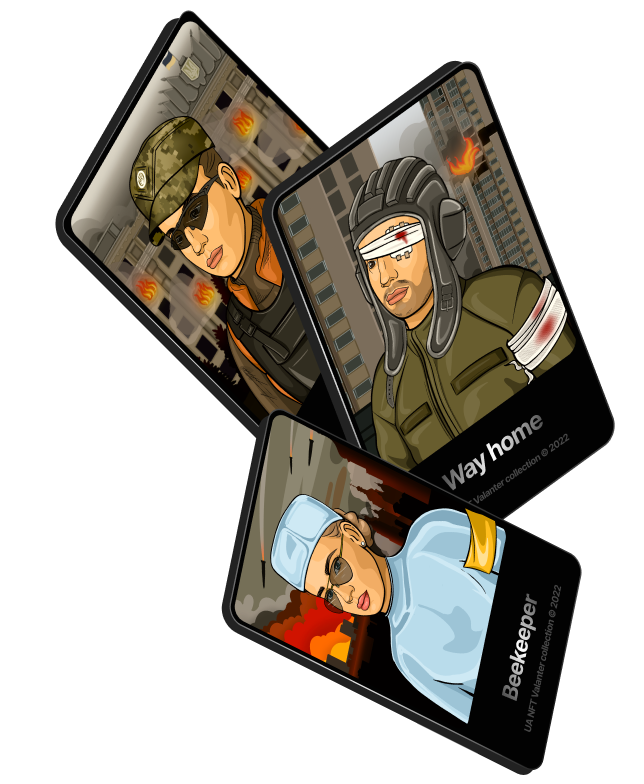
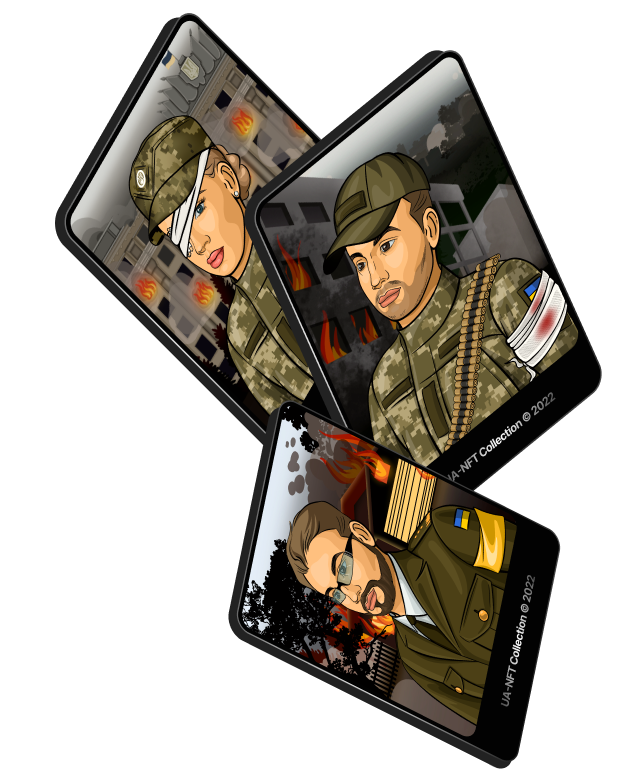
💅 texts, assets and fixes

diff --git a/src/sections/Roadmap/index.tsx b/src/sections/Roadmap/index.tsx
@@ -54,8 +54,7 @@ export const Roadmap: React.FC = () => (
                 <StarIcon className='opacity-30' />
               </div>
               <span className='text-[#ABABAB] text-lg font-semibold leading-relaxed'>
-                Creation of the new $TRIP Contract (Binance Smart Chain (BSC)
-                with a max supply of 5 billion $TRIP)
+                Smart contract development
               </span>
             </li>
             <li className='flex mb-4'>
@@ -63,7 +62,7 @@ export const Roadmap: React.FC = () => (
                 <StarIcon className='opacity-30' />
               </div>
               <span className='text-[#ABABAB] text-lg font-semibold leading-relaxed'>
-                Full audit &#x26; KYC to ensure security &#x26; transparency
+                Launch of the first NFT collection
               </span>
             </li>
             <li className='mb-4'>
@@ -72,7 +71,7 @@ export const Roadmap: React.FC = () => (
                   <StarIcon />
                 </div>
                 <span className='text-[#F6EDD4] text-lg font-semibold leading-relaxed'>
-                  Migration from ERC20 to BSC
+                  Mint
                 </span>
               </div>
               <p className='text-sm text-[#ABABAB] max-w-[15rem] leading-loose ml-11'>
@@ -80,38 +79,6 @@ export const Roadmap: React.FC = () => (
                 Launch community swap from ERC-BSchain Open BSC deposit and
                 withdrawal Re-launch trading pairs
               </p>
-            </li>
-            <li className='flex mb-4'>
-              <div className='p-1 mr-4 mb-auto'>
-                <StarIcon />
-              </div>
-              <span className='text-[#F6EDD4] text-lg font-semibold leading-relaxed'>
-                MigLaunch initial marketing campaign
-              </span>
-            </li>
-            <li className='flex mb-4'>
-              <div className='p-1 mr-4 mb-auto'>
-                <StarIcon />
-              </div>
-              <span className='text-[#F6EDD4] text-lg font-semibold leading-relaxed'>
-                Launch private sale
-              </span>
-            </li>
-            <li className='flex mb-4'>
-              <div className='p-1 mr-4 mb-auto'>
-                <StarIcon />
-              </div>
-              <span className='text-[#F6EDD4] text-lg font-semibold leading-relaxed'>
-                Launch Initial Liquidity Offering (ILO)
-              </span>
-            </li>
-            <li className='flex mb-4'>
-              <div className='p-1 mr-4 mb-auto'>
-                <StarIcon />
-              </div>
-              <span className='text-[#F6EDD4] text-lg font-semibold leading-relaxed'>
-                Add Decentralised Exchange (DEX) liquidity
-              </span>
             </li>
           </ul>
         </div>
@@ -156,7 +123,7 @@ export const Roadmap: React.FC = () => (
                 <StarIcon />
               </div>
               <span className='text-[#F6EDD4] text-lg font-semibold leading-relaxed'>
-                Launch private sale
+                Assistance to refugees
               </span>
             </li>
             <li className='flex mb-4'>
@@ -164,7 +131,7 @@ export const Roadmap: React.FC = () => (
                 <StarIcon />
               </div>
               <span className='text-[#F6EDD4] text-lg font-semibold leading-relaxed'>
-                Launch Initial Liquidity Offering (ILO)
+                Organization of simple boarding schools for children
               </span>
             </li>
             <li className='flex mb-4'>
@@ -172,7 +139,7 @@ export const Roadmap: React.FC = () => (
                 <StarIcon />
               </div>
               <span className='text-[#F6EDD4] text-lg font-semibold leading-relaxed'>
-                Add Decentralised Exchange (DEX) liquidity
+                Professional psychological assistance
               </span>
             </li>
             <li className='flex mb-4'>
@@ -180,7 +147,8 @@ export const Roadmap: React.FC = () => (
                 <StarIcon />
               </div>
               <span className='text-[#F6EDD4] text-lg font-semibold leading-relaxed'>
-                Add Decentralised Exchange (DEX) liquidity
+                Preparation of training courses and selection of experts for the
+                preparation of chains of courses
               </span>
             </li>
           </ul>
@@ -226,31 +194,7 @@ export const Roadmap: React.FC = () => (
                 <StarIcon />
               </div>
               <span className='text-[#F6EDD4] text-lg font-semibold leading-relaxed'>
-                Launch private sale
-              </span>
-            </li>
-            <li className='flex mb-4'>
-              <div className='p-1 mr-4 mb-auto'>
-                <StarIcon />
-              </div>
-              <span className='text-[#F6EDD4] text-lg font-semibold leading-relaxed'>
-                Launch Initial Liquidity Offering (ILO)
-              </span>
-            </li>
-            <li className='flex mb-4'>
-              <div className='p-1 mr-4 mb-auto'>
-                <StarIcon />
-              </div>
-              <span className='text-[#F6EDD4] text-lg font-semibold leading-relaxed'>
-                Add Decentralised Exchange (DEX) liquidity
-              </span>
-            </li>
-            <li className='flex mb-4'>
-              <div className='p-1 mr-4 mb-auto'>
-                <StarIcon />
-              </div>
-              <span className='text-[#F6EDD4] text-lg font-semibold leading-relaxed'>
-                Add Decentralised Exchange (DEX) liquidity
+                Launch of the second NFT collection
               </span>
             </li>
           </ul>
@@ -296,7 +240,7 @@ export const Roadmap: React.FC = () => (
                 <StarIcon />
               </div>
               <span className='text-[#F6EDD4] text-lg font-semibold leading-relaxed'>
-                Launch private sale
+                Development of humanitarian assistance
               </span>
             </li>
             <li className='flex mb-4'>
@@ -304,7 +248,7 @@ export const Roadmap: React.FC = () => (
                 <StarIcon />
               </div>
               <span className='text-[#F6EDD4] text-lg font-semibold leading-relaxed'>
-                Launch Initial Liquidity Offering (ILO)
+                Medical consultations
               </span>
             </li>
             <li className='flex mb-4'>
@@ -312,7 +256,7 @@ export const Roadmap: React.FC = () => (
                 <StarIcon />
               </div>
               <span className='text-[#F6EDD4] text-lg font-semibold leading-relaxed'>
-                Add Decentralised Exchange (DEX) liquidity
+                Organization of training for adult migrants
               </span>
             </li>
             <li className='flex mb-4'>
@@ -320,7 +264,15 @@ export const Roadmap: React.FC = () => (
                 <StarIcon />
               </div>
               <span className='text-[#F6EDD4] text-lg font-semibold leading-relaxed'>
-                Add Decentralised Exchange (DEX) liquidity
+                Full audit &amp; KYC to ensure security &amp; transparency
+              </span>
+            </li>
+            <li className='flex mb-4'>
+              <div className='p-1 mr-4 mb-auto'>
+                <StarIcon />
+              </div>
+              <span className='text-[#F6EDD4] text-lg font-semibold leading-relaxed'>
+                Building a system of education in orphanages
               </span>
             </li>
           </ul>

diff --git a/src/data/questions.tsx b/src/data/questions.tsx
@@ -2,40 +2,25 @@ import { Question } from "src/types";
 
 export const questions: Question[] = [
   {
-    question: "How does the free trial work?",
-    answer: (
-      <>
-        Launched in 2017, DataHawk is the 1st software platform that provides
-        powerful enterprise-grade analytics intuitively and at scale, at an
-        affordable price. Today, we are the leading SEO and Product Data
-        analytics solution in the market.
-        <br />
-        <br />
-        We&apos;re a team of 40+ experienced software developers, retail, and
-        marketing professionals based in Paris, France. We recently raised $7
-        Million USD Series A in Equity funding round to become the global leader
-        in Multi-Channel eCommerce Analytics and Optimization.
-      </>
-    ),
+    question: "Who we are?",
+    answer:
+      "UA-NFT is 15000 uniquely generated cards of all participants in the war in Ukraine. Our goal is to create a new generation hub. Education for children by the affected war, education for children from orphanages, the opportunity to learn new professions with international experts and the possibility of employment in the global market",
   },
   {
-    question: "When do I get charged with a paid plan?",
-    answer:
-      "Launched in 2017, DataHawk is the 1st software platform that provides powerful enterprise-grade analytics intuitively and at scale, at an affordable price. Today, we are the leading SEO and Product Data analytics solution in the market.",
+    question: "What is the Supply?",
+    answer: "The total supply of Tier 1 UA-NFT is 15 000 unique nfts.",
   },
   {
-    question: "How secure are payments?",
+    question: "Mint price?",
     answer:
-      "Lorem ipsum dolor sit amet consectetur adipisicing elit. Corrupti, repellat magni modi pariatur placeat eos tempora tempore sequi. Harum recusandae autem, cum illum doloribus est eos cupiditate deleniti vero ex!",
+      "Each not will cost 0.015 ETH to mint. This price is subject to change with the fluctuating price of ETH.",
   },
   {
-    question: "What payment methods are available?",
-    answer:
-      "Lorem ipsum dolor sit amet consectetur adipisicing elit. Corrupti, repellat magni modi pariatur placeat eos tempora tempore sequi. Harum recusandae autem, cum illum doloribus est eos cupiditate deleniti vero ex!",
+    question: "How many NFTs will I be able to mint during the public sale?",
+    answer: "1 per transaction.",
   },
   {
-    question: "Do you have a yearly plan with a discount?",
-    answer:
-      "Lorem ipsum dolor sit amet consectetur adipisicing elit. Corrupti, repellat magni modi pariatur placeat eos tempora tempore sequi. Harum recusandae autem, cum illum doloribus est eos cupiditate deleniti vero ex!",
+    question: "What are the royalties going to be?",
+    answer: "Secondary royalties will be 3.5%.",
   },
 ];

diff --git a/src/components/Layout/Footer/index.tsx b/src/components/Layout/Footer/index.tsx
@@ -1,18 +1,25 @@
 import Image from "next/image";
 import Link from "next/link";
-import { UNFTLogoImage } from "@/assets/img";
+import { CGTLogoImage, UNFTLogoImage } from "@/assets/img";
 import { Links } from "@/components/Links";
 import { links } from "@/data/links";
 
 export const Footer: React.FC = () => (
   <footer className='bg-black'>
     <div className='flex flex-col space-y-16 md:space-y-20 px-4 md:px-8 py-16 2xl:max-w-screen-2xl mx-auto'>
-      <div className='flex flex-col space-y-4 md:space-y-0 md:flex-row justify-between items-center'>
+      <div className='flex flex-col relative space-y-12 md:space-y-0 md:flex-row justify-between items-center'>
         <Link href='/'>
           <a className='block w-[145px] lg:w-[193px] h-12 lg:h-16'>
             <Image src={UNFTLogoImage} alt='unft logo' />
           </a>
         </Link>
+
+        <div className='md:absolute bottom-0 md:left-1/2 md:-translate-x-1/2 md:translate-y-[calc(100%+40px)] lg:translate-y-0 flex flex-col items-center space-y-2 order-1 sm:order-auto'>
+          <span className='text-[#A9A9A9] font-semibold text-sm'>
+            In partnership with
+          </span>
+          <Image src={CGTLogoImage} alt='CGT' />
+        </div>
 
         <p className='flex flex-col space-y-8 text-center md:text-right whitespace-nowrap text-sm sm:text-base'>
           <span className='font-bold text-[#A9A9A9]'>
@@ -31,13 +38,6 @@ export const Footer: React.FC = () => (
 
         <div className='flex items-center space-x-6 order-first md:order-none transition ease-out delay-200'>
           <Links links={links} className='opacity-60' />
-        </div>
-
-        <div className='space-x-1'>
-          <span className='text-white text-sm opacity-60'>In partnership with</span>
-          <span className='text-[#F8D47A] text-sm font-semibold transition ease-out delay-200'>
-            CGT GROUP
-          </span>
         </div>
       </div>
     </div>

diff --git a/src/sections/About/index.tsx b/src/sections/About/index.tsx
@@ -18,19 +18,21 @@ export const About: React.FC = () => (
         <HeartIcon className='mr-4' /> Why we do it?
       </span>
       <p className='text-[#ABABAB] text-base font-normal leading-relaxed mb-9'>
-        Uh oh, we cannot find the page you are looking for. Try going to the
-        previous page or homepage or Help Center for more information. Uh oh, we
-        cannot find the page you are looking for.
+        War. There is a new reality ahead and we want to maximize all the
+        opportunities for migrants, their children and build a successful new
+        generation. Act and create to help others. Our project is like a
+        transition to a new reality. And its the way to save the future for
+        children and refugees
       </p>
 
       <span className='flex items-center text-2xl text-[#F8D47A] font-bold mb-3'>
         <ShieldIcon className='mr-4' /> What is our target?
       </span>
       <p className='text-[#ABABAB] text-base font-normal leading-relaxed mb-9'>
-        Uh oh, we cannot find the page you are looking for. Try going to the
-        previous page or homepage or Help Center for more information. Uh oh, we
-        cannot find the page you are looking for. Try going to the previous page
-        or homepage or Help Center for more information.
+        Our goal is to create a new generation hub. Education for children
+        affected by the war, education for children from orphanages, the
+        opportunity to learn new professions with international experts and the
+        possibility of employment in the global market
       </p>
 
       <Link href='#collection'>

diff --git a/src/sections/Collections/index.tsx b/src/sections/Collections/index.tsx
@@ -20,8 +20,8 @@ export const Collections: React.FC = () => (
           <TridentIcon className='mr-2' /> Collection #1
         </span>
         <p className='text-[#BEA875] font-normal text-xs sm:text-base'>
-          Uh oh, we cannot find the page you are looking for. Try going to the
-          previous page or homepage or Help Center for more information.
+          Each NFT hero is a hero of Ukraine, each civilian who follows his
+          country
         </p>
       </div>
 
@@ -30,8 +30,9 @@ export const Collections: React.FC = () => (
           Collection #2
         </span>
         <p className='text-[#ABABAB] font-normal text-xs sm:text-base'>
-          Uh oh, we cannot find the page you are looking for. Try going to the
-          previous page or homepage or Help Center for more information.
+          Personal heroic stories that have become known to the whole world.
+          Celebrities who support Ukraine, young projects and participants in
+          the war
         </p>
       </div>
     </div>

diff --git a/src/components/ShowcaseCard/index.tsx b/src/components/ShowcaseCard/index.tsx
@@ -1,17 +1,9 @@
 import { ShowcaseCardType } from "src/types";
 
-export const ShowcaseCard: React.FC<ShowcaseCardType> = ({ image, title }) => (
+export const ShowcaseCard: React.FC<ShowcaseCardType> = ({ image }) => (
   <div className='flex flex-col max-w-sm w-full lg:max-w-none space-y-10 relative p-2 text-center radial-border rounded-[28px] before:rounded-[29px] before:-z-10'>
     <div className='relative h-[469px] rounded-[20px] overflow-hidden'>
       {image}
     </div>
-
-    <span className='block mx-auto gradient-text bg-clip-text font-bold text-4xl text-transparent tracking-tight'>
-      {title}
-    </span>
-
-    <span className='font-bold text-[#474747] tracking-tighter pb-5'>
-      UA NFT Valanter collection © 2022
-    </span>
   </div>
 );

diff --git a/src/assets/img/index.ts b/src/assets/img/index.ts
@@ -1,4 +1,5 @@
 import UNFTLogoImage from "@/public/img/UNFTLogo.png";
+import CGTLogoImage from "@/public/img/cgt.png";
 import heroBgImage from "@/public/img/hero-bg.png";
 import rarityHeroBgImage from "@/public/img/rarity-hero-bg.png";
 import collectionLeftImage from "@/public/img/collection-left.png";
@@ -14,6 +15,7 @@ import collectionImage from "@/public/img/collection.png";
 
 export {
   UNFTLogoImage,
+  CGTLogoImage,
   heroBgImage,
   rarityHeroBgImage,
   aboutImage,

diff --git a/src/components/ElementCard/index.tsx b/src/components/ElementCard/index.tsx
@@ -12,9 +12,5 @@ export const ElementCard: React.FC<Element> = ({ image, name, rarity }) => (
     <span className='block mb-[10px] sm:mb-10 mx-auto gradient-text bg-clip-text font-bold text-sm sm:text-4xl text-transparent tracking-tight'>
       {name}
     </span>
-
-    <span className='font-bold text-[#474747] text-[8px] sm:text-base tracking-tighter pb-4 sm:pb-5'>
-      UA NFT Valanter collection © 2022
-    </span>
   </div>
 );

diff --git a/src/data/links.tsx b/src/data/links.tsx
@@ -14,8 +14,8 @@ export const links: LinkType[] = [
     label: "twitter",
   },
   {
-    url: "https://medium.com/",
-    label: "medium",
+    url: "https://t.me/ua_nft_tg",
+    label: "telegram",
   },
 ];
 

diff --git a/src/types.ts b/src/types.ts
@@ -42,5 +42,5 @@ export interface Member {
 
 export interface Question {
   question: string;
-  answer: string | JSX.Element;
+  answer: string;
 }
